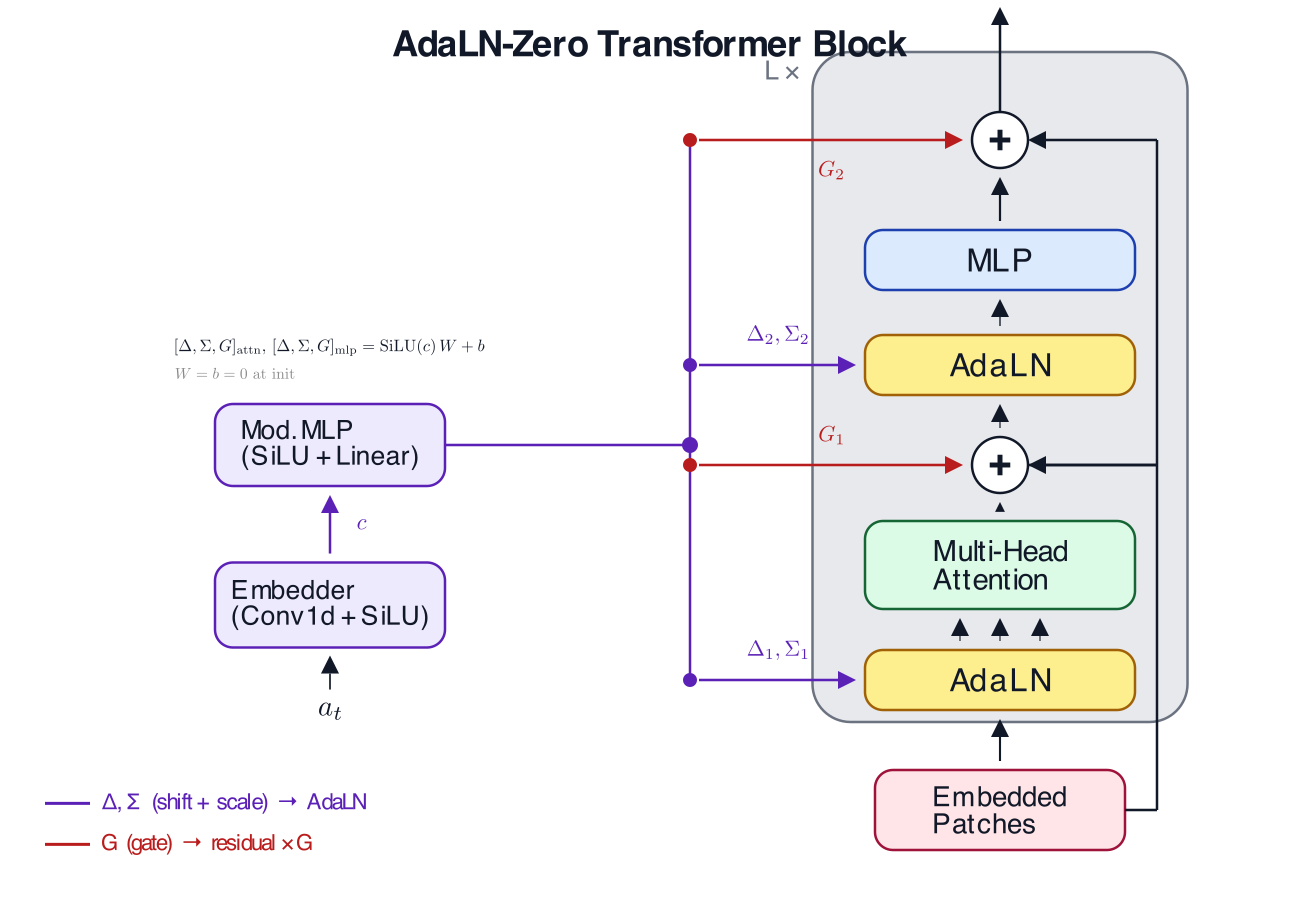
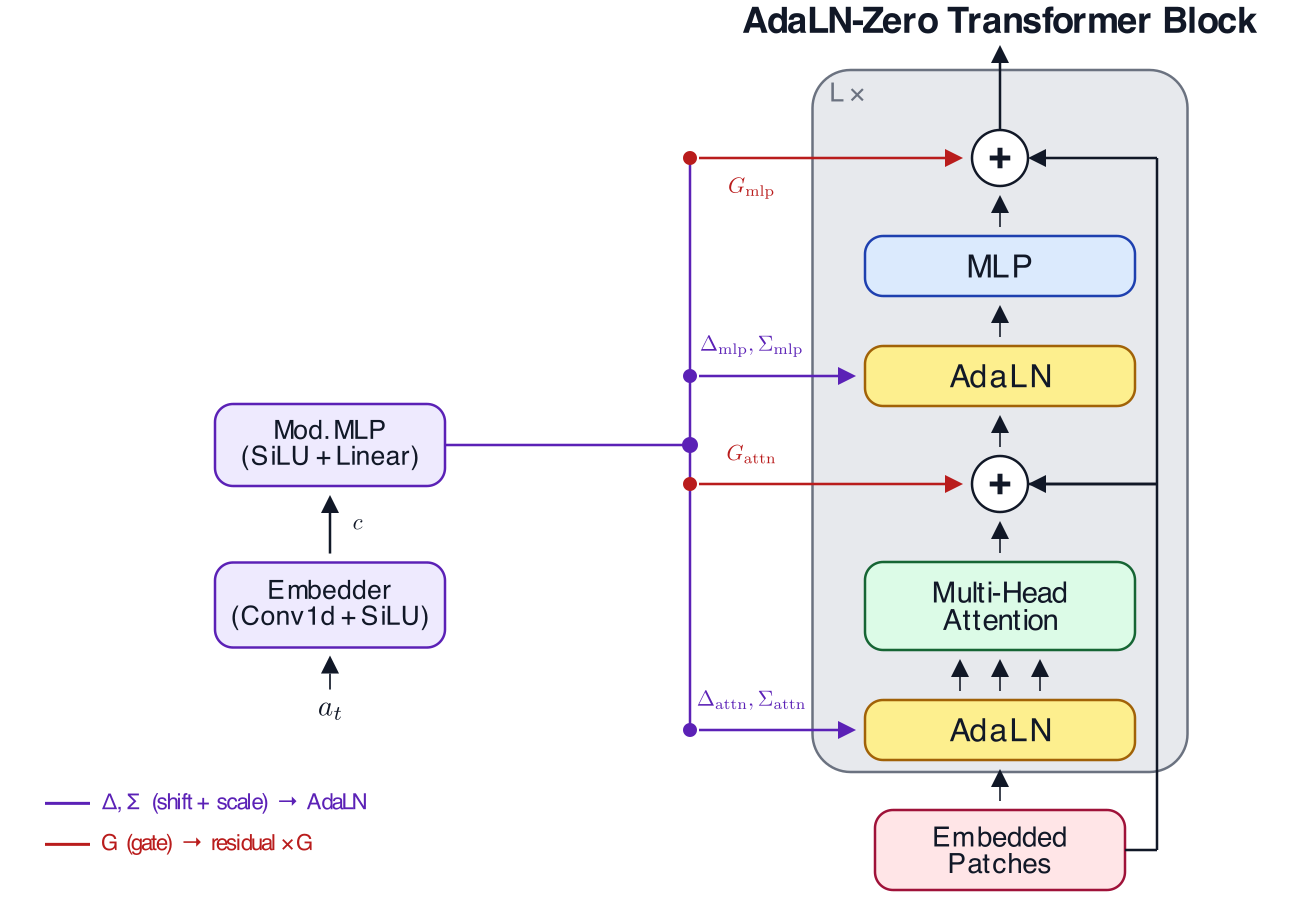
refactor AdaLN slides

diff --git a/animations/adaln_block.py b/animations/adaln_block.py
@@ -31,13 +31,13 @@ class AdaLNTransformerBlock(Scene):
     BW = 2.7      # block width
     BH = 0.60     # standard block height
 
-    YP  = -3.60   # Embedded Patches (outside block, moved down)
-    YN1 = -2.30   # AdaLN 1
-    YM  = -1.15   # Multi-Head Attention
-    YA1 = -0.15   # add circle 1
-    YN2 =  0.85   # AdaLN 2
-    YL  =  1.90   # MLP
-    YA2 =  3.10   # add circle 2
+    YP  = -4.00   # Embedded Patches (outside block, moved down)
+    YN1 = -2.80   # AdaLN 1
+    YM  = -1.56   # Multi-Head Attention
+    YA1 = -0.34   # add circle 1
+    YN2 =  0.74   # AdaLN 2
+    YL  =  1.84   # MLP
+    YA2 =  2.92   # add circle 2
 
     # ── Conditioning column ────────────────────────────────────────────────
     # Bus line: single vertical at x=BX; horizontal branches for each target.
@@ -51,7 +51,9 @@ class AdaLNTransformerBlock(Scene):
         r = RoundedRectangle(width=w, height=h, corner_radius=0.18,
                              fill_color=fill, fill_opacity=0.95,
                              stroke_color=stroke, stroke_width=2.5)
-        t = Text(label, font_size=fsize, color=self.TEXT_C).move_to(r)
+        lines = label.split("\n")
+        t = VGroup(*[Text(l, font_size=fsize, color=self.TEXT_C) for l in lines]
+                   ).arrange(DOWN, aligned_edge=ORIGIN, buff=0.06).move_to(r)
         return VGroup(r, t)
 
     def _add_circle(self, pos):
@@ -105,7 +107,7 @@ class AdaLNTransformerBlock(Scene):
             stroke_color=self.BG_S, stroke_width=2.5,
         ).move_to([TX, blk_cy, 0])
         lx = Text("L ×", font_size=19, color="#6B7280").move_to(
-            bg.get_corner(UL) + [-0.30, -0.18, 0])
+            bg.get_corner(UL) + [0.35, -0.22, 0])
 
         # ── Transformer elements ───────────────────────────────────────────
         patches = self._box("Embedded\nPatches", self.PAT_F, self.PAT_S,
@@ -135,7 +137,7 @@ class AdaLNTransformerBlock(Scene):
         va_a2n  = self._va(add1,   adaln2)
         va_n2l  = self._va(adaln2, mlp)
         va_l2a  = self._va(mlp,    add2)
-        out_arr = Arrow(add2.get_top(), [TX, blk_top + 0.45, 0],
+        out_arr = Arrow(add2.get_top(), [TX, blk_top + 0.25, 0],
                         buff=0.0, stroke_width=2.5, color=self.TEXT_C,
                         tip_length=self.TIP, max_tip_length_to_length_ratio=self.RATIO)
 
@@ -150,28 +152,16 @@ class AdaLNTransformerBlock(Scene):
         mod_box = self._box("Mod. MLP\n(SiLU + Linear)", self.ACT_F, self.ACT_S,
                             w=2.3, h=0.82, fsize=19).move_to([AX, 0.05, 0])
 
-        # Formula above the Mod. MLP box — single row + zero-init note
-        formula = VGroup(
-            MathTex(
-                r"[\Delta,\Sigma,G]_{\rm attn},\,[\Delta,\Sigma,G]_{\rm mlp}"
-                r"= \mathrm{SiLU}(c)\,W+b",
-                font_size=16, color=self.TEXT_C,
-            ),
-            MathTex(r"W = b = 0 \text{ at init}",
-                    font_size=15, color=GRAY),
-        ).arrange(DOWN, aligned_edge=LEFT, buff=0.12
-                  ).next_to(mod_box, UP, buff=0.25)
-
         # Embedder box
         act_box = self._box("Embedder\n(Conv1d + SiLU)", self.ACT_F, self.ACT_S,
                             w=2.3, h=0.85, fsize=19).move_to([AX, -1.55, 0])
 
         # Arrow Embedder → Mod. MLP, labelled "c"
         arr_a2m = Arrow(act_box.get_top(), mod_box.get_bottom(),
-                        buff=0.09, stroke_width=2.5, color=self.MOD_C,
+                        buff=0.09, stroke_width=2.5, color=self.TEXT_C,
                         tip_length=self.TIP, max_tip_length_to_length_ratio=self.RATIO)
-        c_label = MathTex(r"c", font_size=22, color=self.MOD_C).move_to(
-            arr_a2m.get_center() + np.array([0.32, 0, 0]))
+        c_label = MathTex(r"c", font_size=22, color=self.TEXT_C).move_to(
+            arr_a2m.get_center() + np.array([0.28, 0, 0]))
 
         # a_t label + arrow into Embedder
         at_label = MathTex(r"a_t", font_size=28, color=self.TEXT_C
@@ -227,18 +217,19 @@ class AdaLNTransformerBlock(Scene):
             offset = -0.30 if below else 0.30
             return MathTex(tex, font_size=21, color=color).move_to([x_mid, y + offset, 0])
 
-        mid_ada = (BX + adaln1_lx) / 2
-        mid_add = (BX + add1_lx)   / 2
+        gray_lx = TX - (self.BW + 1.05) / 2   # left edge of gray background box
+        mid_ada = (BX + gray_lx) / 2
+        mid_add = (BX + gray_lx) / 2
 
-        lbl_ds1 = _lbl(r"\Delta_1,\Sigma_1", self.MOD_C,  self.YN1, mid_ada)
-        lbl_g1  = _lbl(r"G_1",               self.GATE_C, self.YA1, mid_add)
-        lbl_ds2 = _lbl(r"\Delta_2,\Sigma_2", self.MOD_C,  self.YN2, mid_ada)
-        lbl_g2  = _lbl(r"G_2",               self.GATE_C, self.YA2, mid_add, below=True)
+        lbl_ds1 = _lbl(r"\Delta_{\rm attn},\Sigma_{\rm attn}", self.MOD_C,  self.YN1, mid_ada)
+        lbl_g1  = _lbl(r"G_{\rm attn}",                       self.GATE_C, self.YA1, mid_add)
+        lbl_ds2 = _lbl(r"\Delta_{\rm mlp},\Sigma_{\rm mlp}",  self.MOD_C,  self.YN2, mid_ada)
+        lbl_g2  = _lbl(r"G_{\rm mlp}",                        self.GATE_C, self.YA2, mid_add, below=True)
 
         # ── Title ──────────────────────────────────────────────────────────
         title = Text("AdaLN-Zero Transformer Block",
                      font_size=26, weight=BOLD, color=self.TEXT_C
-                     ).to_edge(UP, buff=0.3)
+                     ).move_to([TX, blk_top + 0.50, 0])
 
         # ── Legend ─────────────────────────────────────────────────────────
         def _leg(line_col, txt):
@@ -262,7 +253,7 @@ class AdaLNTransformerBlock(Scene):
             va_a2n, adaln2, va_n2l, mlp, va_l2a,
             add2, skip2, out_arr,
             # conditioning
-            formula, mod_box, arr_a2m, c_label, act_box, at_arrow, at_label,
+            mod_box, arr_a2m, c_label, act_box, at_arrow, at_label,
             arr_m2bus, bus_line, junction,
             br_ds1, br_g1, br_ds2, br_g2,
             dots,

diff --git a/presentation.py b/presentation.py
@@ -728,19 +728,15 @@ def adaln_why_lewm_slide(mo):
     )
 
     _text = mo.vstack([
-        mo.md("*THREE DESIGN CHOICES AND THEIR CONSEQUENCES*"),
-        mo.md("&nbsp;"),
         mo.md(
             "**01 Why scale + shift — not concatenation or addition?**\n\n"
-            "- *Concatenation*: action token is tiny compared to patch embeddings — signal drowned out\n"
-            "- *Addition*: shifts features uniformly but no multiplicative gating over content\n"
-            "- *AdaLN*: rescales every token via $(1{+}\\Sigma(c))$ then shifts — "
-            "action has **full, per-feature influence** over all patches\n\n"
+            "- *Concat / addition*: action signal is drowned out or shifts features uniformly\n"
+            "- *AdaLN*: action conditions both the **scale and shift of every feature**\n\n"
             "**02 Why zero-init?**\n\n"
-            "- At init: $W{=}0 \\Rightarrow G{=}0$ → predictor is a **pure residual stream (identity)**\n"
-            "- Encoder has learned nothing useful yet — random conditioning would destabilise gradients\n"
-            "- Conditioning grows in progressively as representations mature → "
-            "**stable end-to-end training from pixels**"
+            "- $G{=}0$ gates out the sublayer's contribution — **pure skip connection**:  \n"
+            "  $x \\leftarrow x + 0{\\cdot}\\text{sublayer}(y) = x$\n"
+            "- **Two-phase**: SIGReg first anchors the latent geometry; "
+            "gates then open progressively as representations mature → stable end-to-end training"
         ),
     ], align="start")
 